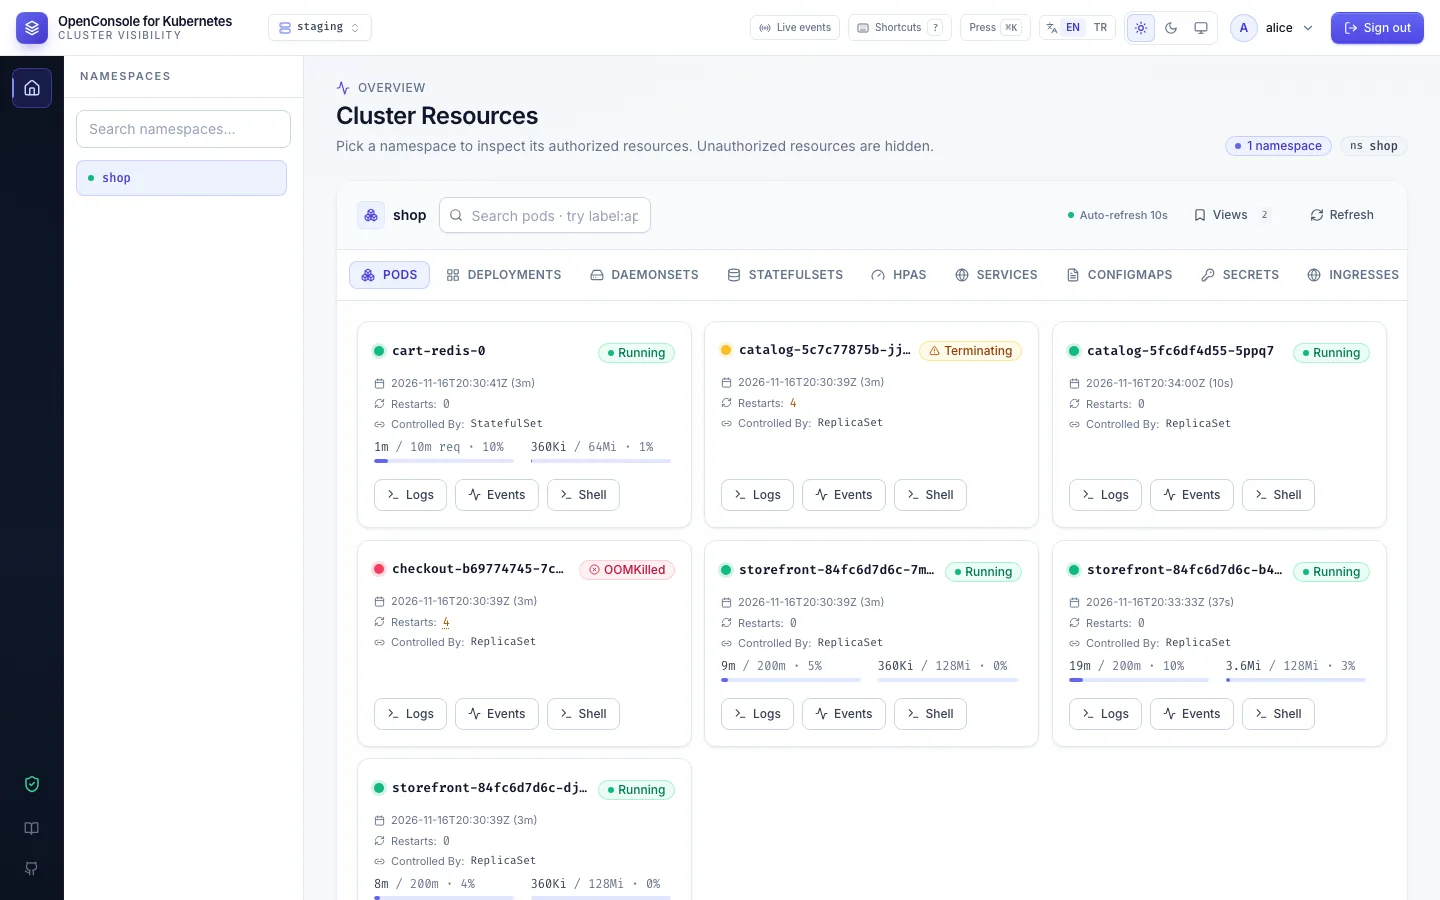
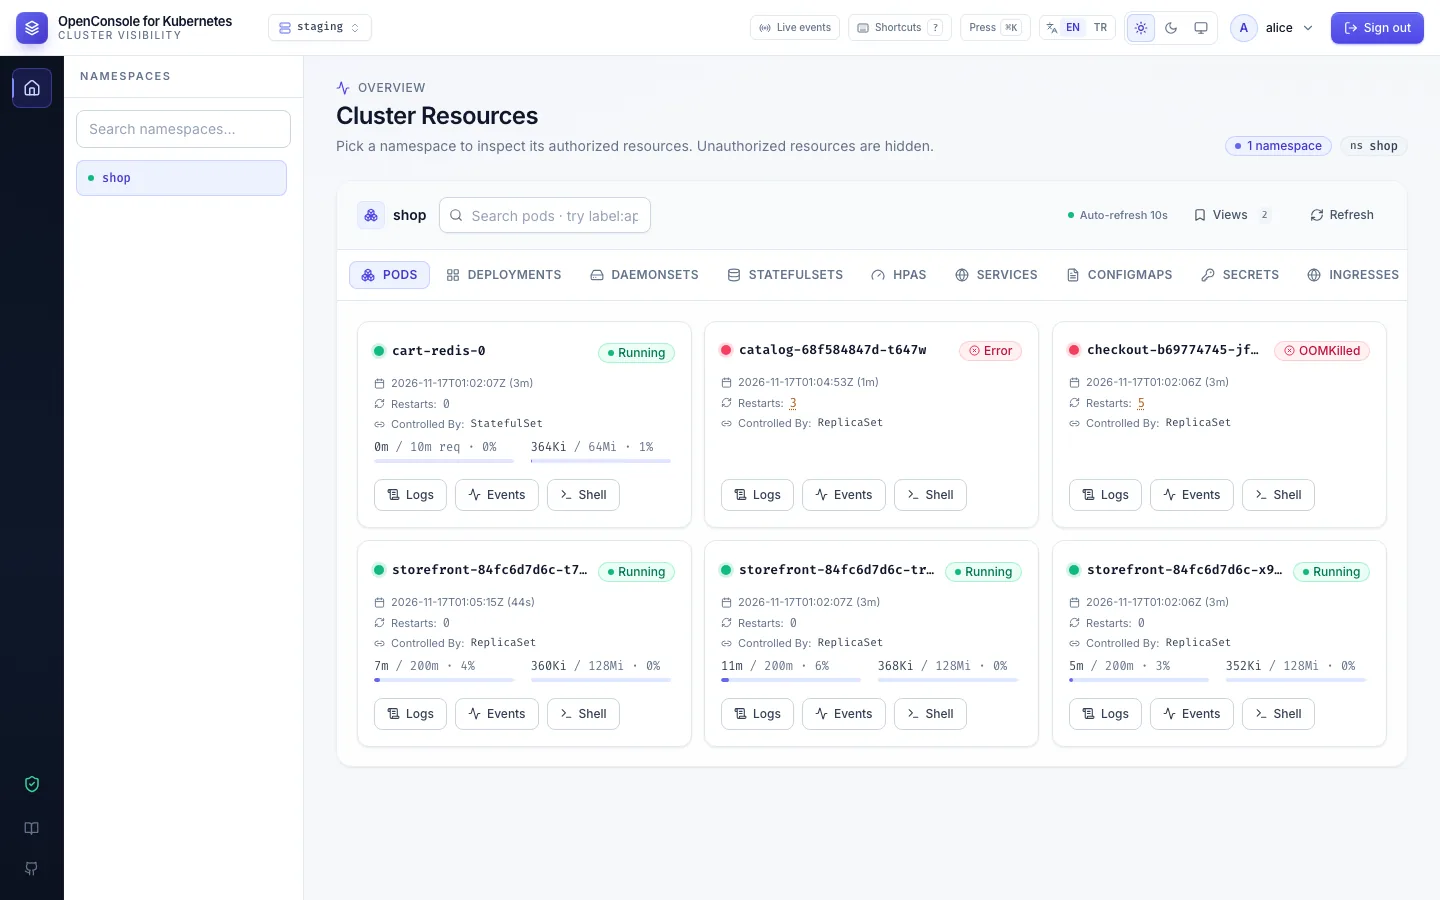
OpenConsole 2.23 guide: image 2.23.4, docs at dd41970, new screenshots

diff --git a/_posts/2026-01-16-kubernetes-openconsole-dashboard-ui.md b/_posts/2026-01-16-kubernetes-openconsole-dashboard-ui.md
@@ -1,7 +1,7 @@
 ---
 title: "OpenConsole for Kubernetes: Multi-Cluster Operations and API Access"
 date: 2026-01-16 19:20:00 +0300
-last_modified_at: 2026-11-17 00:20:00 +0300
+last_modified_at: 2026-11-17 06:00:00 +0300
 description: "Run OpenConsole for Kubernetes 2.23 with scoped cluster access, live logs, recorded shells and API keys for scripts and AI agents."
 image:
   path: /assets/img/posts/openconsole-2.23/dashboard-cards.en.light.webp
@@ -21,7 +21,7 @@ The distinction matters: **the current console is not read-only by default at th
 
 [Read the documentation](https://k8sopenconsole.github.io/) · [Türkçe dokümantasyon](https://k8sopenconsole.github.io/tr/) · [Source and releases](https://github.com/vurulkan/kubernetes-openconsole).
 
-This guide follows the published **2.23** documentation and **2.23.1** image. The screenshots come from the documentation project's demo environment; the workloads and users shown are fictional.
+This guide follows the published **2.23** documentation and **2.23.4** image. The screenshots come from the documentation project's demo environment; the workloads and users shown are fictional.
 
 ## What the current console includes
 
@@ -75,10 +75,10 @@ The pod does **not** automatically adopt its mounted ServiceAccount or discover 
 
 ## Choose an image
 
-The published 2.23 documentation pins release `2.23.1`:
+The published 2.23 documentation pins release `2.23.4`:
 
 ```yaml
-image: ghcr.io/vurulkan/kubernetes-openconsole:2.23.1
+image: ghcr.io/vurulkan/kubernetes-openconsole:2.23.4
 ```
 
 Release images support `linux/amd64` and `linux/arm64`. Pin a release for a reproducible installation. `latest` follows published releases; development images use separate `dev-*` tags. Release images include GitHub build-provenance and SBOM attestations; verification commands are in the repository README.
@@ -95,7 +95,7 @@ docker build -t kubernetes-openconsole:local .
 docker run --rm -p 127.0.0.1:8080:8080 \
   -e TIMEZONE=Europe/Istanbul \
   -v kubernetes-openconsole-data:/data \
-  ghcr.io/vurulkan/kubernetes-openconsole:2.23.1
+  ghcr.io/vurulkan/kubernetes-openconsole:2.23.4
 ```
 
 Open `http://localhost:8080`. The named volume preserves the SQLite database and recordings. This starts the console; cluster access is configured through the UI afterwards.
@@ -110,10 +110,10 @@ Use a small Kustomize directory that pins both the release manifests and the ima
 apiVersion: kustomize.config.k8s.io/v1beta1
 kind: Kustomization
 resources:
-  - https://github.com/vurulkan/kubernetes-openconsole//deploy?ref=v2.23.1
+  - https://github.com/vurulkan/kubernetes-openconsole//deploy?ref=v2.23.4
 images:
   - name: ghcr.io/vurulkan/kubernetes-openconsole
-    newTag: "2.23.1"
+    newTag: "2.23.4"
 patches:
   - patch: |-
       apiVersion: apps/v1
@@ -136,7 +136,7 @@ kubectl -n kubernetes-openconsole rollout status deploy/kubernetes-openconsole -
 
 Before applying, review the manifests for your environment:
 
-- The source manifest uses `latest`; the `images` override pins the container to the same release as `ref=v2.23.1`.
+- The source manifest uses `latest`; the `images` override pins the container to the same release as `ref=v2.23.4`.
 - Keep **exactly one replica** and the **`Recreate` strategy** (the release manifests use it since 2.23.1; the patch above keeps it explicit). Overlapping pods would open the same SQLite database, and on 2.23.0 that could lose writes. `Recreate` stops the old pod before starting its replacement, including during a rollout restart.
 - The default PVC is 5 Gi and stores both the database and recordings. Plan capacity and backups accordingly.
 - The Service exposes port 80 to container port 8080. Put your own Ingress or Gateway in front of it.
@@ -266,6 +266,6 @@ Backups need the same access restrictions as the cluster credentials. The docume
 - [Kubernetes HA on RHEL](/posts/ansible-k8s-ha-cluster-rhel/)
 - [Kubernetes HA on Debian](/posts/ansible-k8s-ha-cluster-debian/)
 
-Updated on November 17, 2026 against the [published 2.23 documentation at `22cb78a`](https://github.com/k8sopenconsole/k8sopenconsole.github.io/tree/22cb78ab9519b91ebb63703f395d662b4a3fa2d9/versioned_docs/version-2.23), whose code reference is `v2.23.0`. The site's published version was used rather than its unreleased Next pages. The commands were checked against that documentation; this article update did not deploy or test a live cluster.
+Updated on November 17, 2026 against the [published 2.23 documentation at `dd41970`](https://github.com/k8sopenconsole/k8sopenconsole.github.io/tree/dd419705a77f6ca32fb684469b40972b5fbc56ed/versioned_docs/version-2.23), whose code reference is `v2.23.4`. The site's published version was used rather than its unreleased Next pages. The commands were checked against that documentation; this article update did not deploy or test a live cluster.
 
-Screenshots are reproduced unchanged from the [OpenConsole for Kubernetes documentation project](https://github.com/k8sopenconsole/k8sopenconsole.github.io/tree/22cb78ab9519b91ebb63703f395d662b4a3fa2d9/static/img/screens), licensed under [CC BY 4.0](https://creativecommons.org/licenses/by/4.0/). They show the project's fictional demo data. The [full documentation](https://k8sopenconsole.github.io/) remains the reference for deployment details, policy settings and troubleshooting.
+Screenshots are reproduced unchanged from the [OpenConsole for Kubernetes documentation project](https://github.com/k8sopenconsole/k8sopenconsole.github.io/tree/dd419705a77f6ca32fb684469b40972b5fbc56ed/static/img/screens), licensed under [CC BY 4.0](https://creativecommons.org/licenses/by/4.0/). They show the project's fictional demo data. The [full documentation](https://k8sopenconsole.github.io/) remains the reference for deployment details, policy settings and troubleshooting.
